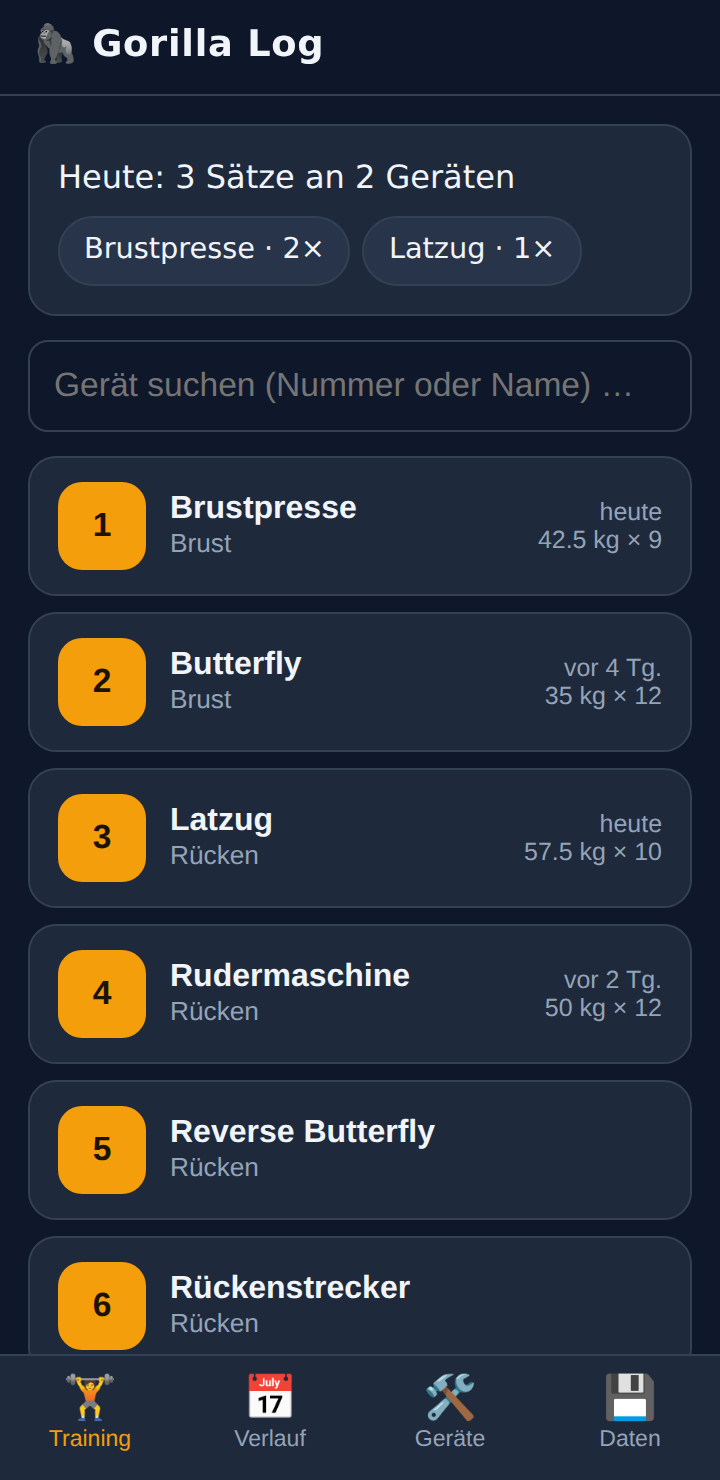
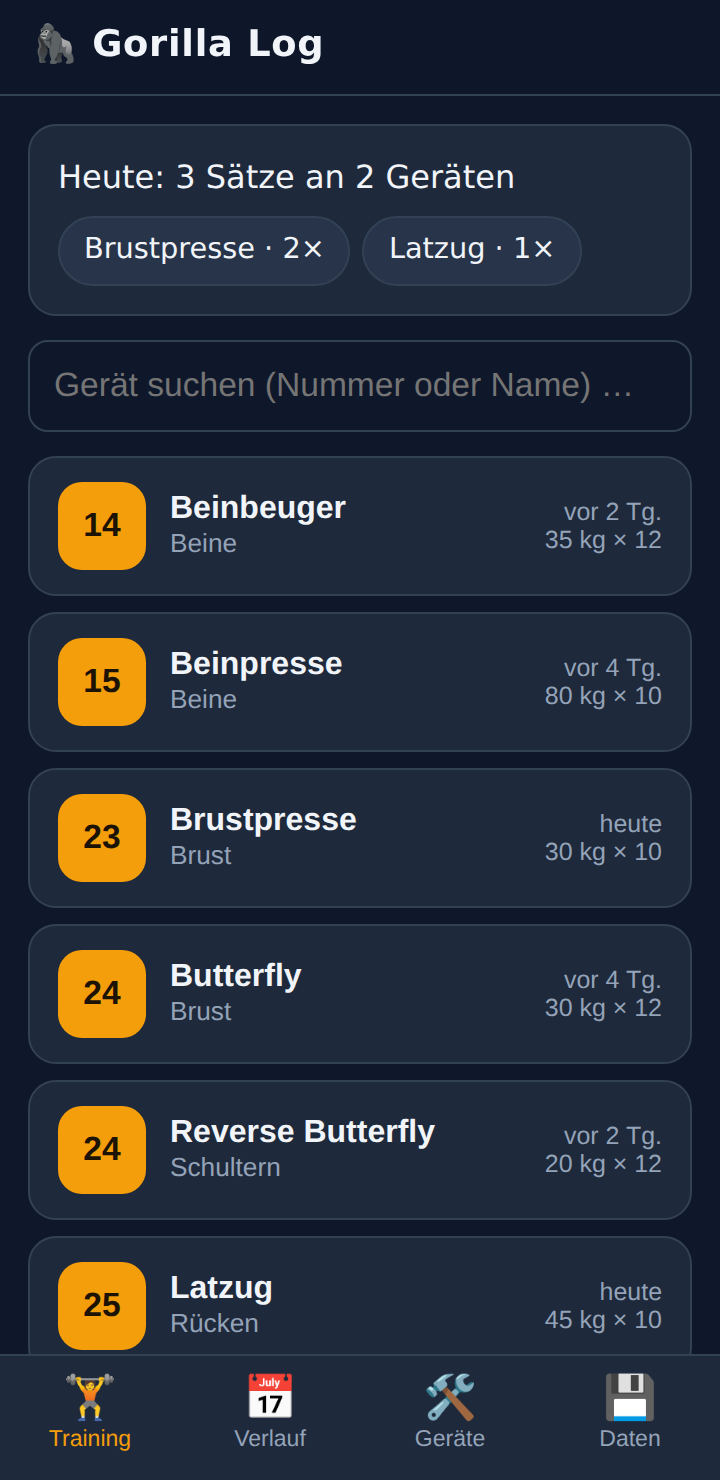
Startkatalog an Trainingsplan anpassen (v1.0.3)
Der vorbefüllte Gerätekatalog enthält jetzt die Geräte des eigenen
Plans mit Studio-Nummern (14 Beinbeuger, 15 Beinpresse, 23 Brustpresse,
24 Butterfly, 24 Reverse Butterfly, 25 Latzug, 37 Trizepsdrücken)
sowie zwei Übungen ohne Nummer (Freemotion Bizepscurl, Rotatoren-
Gummiband). Geräte mit Einstellungs-Spalte im Plan haben ein
'Einstellung'-Feld.

Tests und Screenshots entsprechend aktualisiert, Cache-Version erhöht.

diff --git a/app.js b/app.js
@@ -4,7 +4,7 @@
  */
 'use strict';
 
-const APP_VERSION = '1.0.2';
+const APP_VERSION = '1.0.3';
 const SPEICHER_SCHLUESSEL = 'gorillalog.v1';
 const MUSKELGRUPPEN = ['Brust', 'Rücken', 'Schultern', 'Arme', 'Beine', 'Rumpf', 'Ganzkörper', 'Cardio'];
 const RESERVIERTE_NAMEN = new Set(['__proto__', 'constructor', 'prototype']);
@@ -74,35 +74,20 @@ function zahlLesen(wert) {
 }
 
 /* ============================== Standard-Gerätekatalog ============================== */
-/* Typische Geräte eines Studios (gym80/Technogym-Klassiker). Nummern und Namen
- * lassen sich unter „Geräte“ an das eigene Studio anpassen. */
+/* Startkatalog nach Trainingsplan. Nummern und Namen lassen sich unter
+ * „Geräte“ jederzeit anpassen; Übungen ohne Nummer stehen am Listenende. */
 
 function standardGeraete() {
   const liste = [
-    ['1', 'Brustpresse', 'Brust', ['Sitzhöhe']],
-    ['2', 'Butterfly', 'Brust', ['Sitzhöhe', 'Armhebel']],
-    ['3', 'Latzug', 'Rücken', ['Beinpolster']],
-    ['4', 'Rudermaschine', 'Rücken', ['Sitzhöhe', 'Brustpolster']],
-    ['5', 'Reverse Butterfly', 'Rücken', ['Sitzhöhe', 'Armhebel']],
-    ['6', 'Rückenstrecker', 'Rücken', ['Polsterhöhe']],
-    ['7', 'Schulterpresse', 'Schultern', ['Sitzhöhe']],
-    ['8', 'Seitheben-Maschine', 'Schultern', ['Sitzhöhe']],
-    ['9', 'Bizeps-Maschine', 'Arme', ['Sitzhöhe', 'Armauflage']],
-    ['10', 'Trizeps-Maschine', 'Arme', ['Sitzhöhe']],
-    ['11', 'Dip-Maschine', 'Arme', ['Sitzhöhe']],
-    ['12', 'Beinpresse', 'Beine', ['Rückenlehne']],
-    ['13', 'Beinstrecker', 'Beine', ['Rückenlehne', 'Fusspolster']],
-    ['14', 'Beinbeuger', 'Beine', ['Rückenlehne', 'Fusspolster']],
-    ['15', 'Abduktoren', 'Beine', []],
-    ['16', 'Adduktoren', 'Beine', []],
-    ['17', 'Wadenheben', 'Beine', ['Sitzhöhe']],
-    ['18', 'Multipresse (Smith)', 'Ganzkörper', []],
-    ['19', 'Kabelzug', 'Ganzkörper', ['Höhe', 'Griff']],
-    ['20', 'Bauchpresse', 'Rumpf', ['Sitzhöhe']],
-    ['21', 'Rotary Torso', 'Rumpf', ['Sitzhöhe']],
-    ['22', 'Laufband', 'Cardio', []],
-    ['23', 'Crosstrainer', 'Cardio', []],
-    ['24', 'Ergometer', 'Cardio', []],
+    ['14', 'Beinbeuger', 'Beine', ['Einstellung']],
+    ['15', 'Beinpresse', 'Beine', []],
+    ['23', 'Brustpresse', 'Brust', ['Einstellung']],
+    ['24', 'Butterfly', 'Brust', ['Einstellung']],
+    ['24', 'Reverse Butterfly', 'Schultern', ['Einstellung']],
+    ['25', 'Latzug', 'Rücken', ['Einstellung']],
+    ['37', 'Trizepsdrücken', 'Arme', []],
+    ['', 'Freemotion Bizepscurl', 'Arme', []],
+    ['', 'Rotatoren Gummiband (rot)', 'Schultern', []],
   ];
   return liste.map(([nr, name, gruppe, felder]) => ({
     id: neuId(), nr, name, gruppe, felder, archiviert: false,

diff --git a/sw.js b/sw.js
@@ -5,7 +5,7 @@
  * das ist der einzige atomare Update-Pfad für installierte Apps. */
 'use strict';
 
-const CACHE_NAME = 'gorillalog-v1.0.2';
+const CACHE_NAME = 'gorillalog-v1.0.3';
 const DATEIEN = [
   './',
   './index.html',

diff --git a/README.md b/README.md
@@ -24,9 +24,9 @@ Gerät. Der Code besteht aus reinem HTML/CSS/JavaScript ohne einzige Abhängigke
 - **Geräte-Einstellungen merken:** Pro Gerät frei definierbare Felder wie
   Sitzhöhe oder Rückenlehne – nie wieder die richtige Stufe suchen.
 - **Verlauf:** Alle Trainingstage chronologisch, pro Gerät gruppiert.
-- **Eigener Gerätekatalog:** 24 typische Studio-Geräte sind vorbefüllt;
-  Nummern, Namen, Muskelgruppen und Felder lassen sich ans eigene Studio
-  anpassen.
+- **Eigener Gerätekatalog:** Ein Startkatalog ist vorbefüllt; Nummern, Namen,
+  Muskelgruppen und Felder lassen sich ans eigene Studio anpassen. Auch
+  Übungen ohne Gerätenummer (Freihanteln, Bänder) sind möglich.
 - **Backup:** Kompletter Datenbestand als JSON-Datei exportieren und wieder
   importieren.
 - **Offline:** Nach dem ersten Öffnen funktioniert die App ohne Internet.